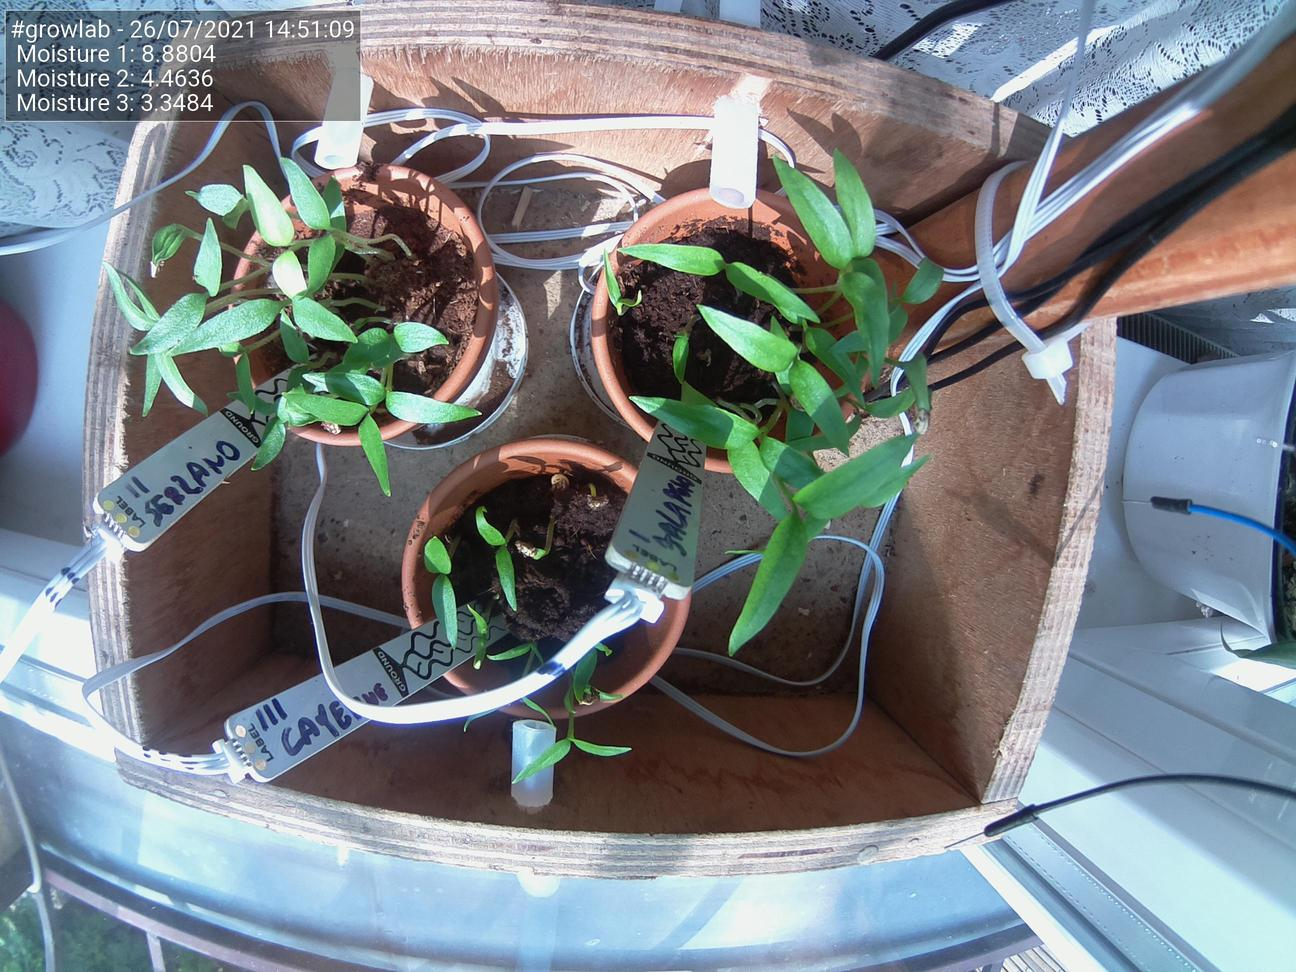
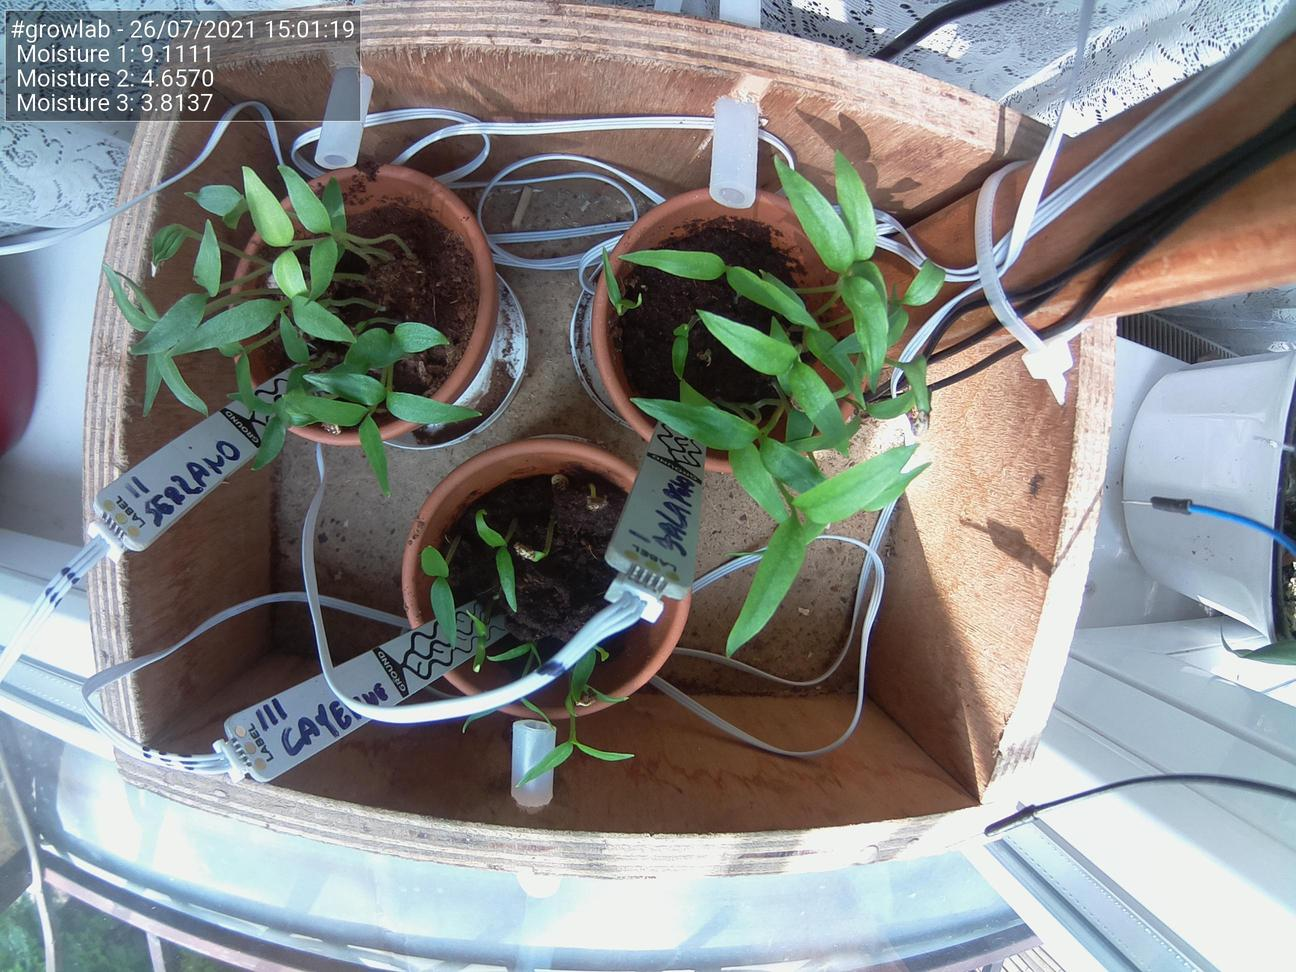
Update images at Mon 26 Jul 15:01:25 BST 2021

diff --git a/docs/index.html b/docs/index.html
@@ -51,25 +51,25 @@
                                 <td>Date</td>
                                 <td>26/07/2021</td>
                                 <td>Time</td>
-                                <td>14:51:09</td>
+                                <td>15:01:19</td>
                             </tr>
                             <tr>
                                 <td>Temperature</td>
                                 <td>N/A</td>
                                 <td>Moisture 1</td>
-                                <td>8.8804</td>
+                                <td>9.1111</td>
                             </tr>
                             <tr>
                                 <td>Humidity</td>
                                 <td>N/A</td>
                                 <td>Moisture 2</td>
-                                <td>4.4636</td>
+                                <td>4.6570</td>
                             </tr>
                             <tr>
                                 <td>Pressure</td>
                                 <td>N/A</td>
                                 <td>Moisture 3</td>
-                                <td>3.3484</td>
+                                <td>3.8137</td>
                             </tr>
                         </tbody>
                     </table>
@@ -77,7 +77,7 @@
 
                 <h5>Latest image</h5>
                 <div style="width: 85%;">
-                            <img class="figure-img img-fluid rounded" src="./preview.jpg?uid=1627307474.9399424">
+                            <img class="figure-img img-fluid rounded" src="./preview.jpg?uid=1627308085.1145248">
                 </div>
             </div>
         </div>
